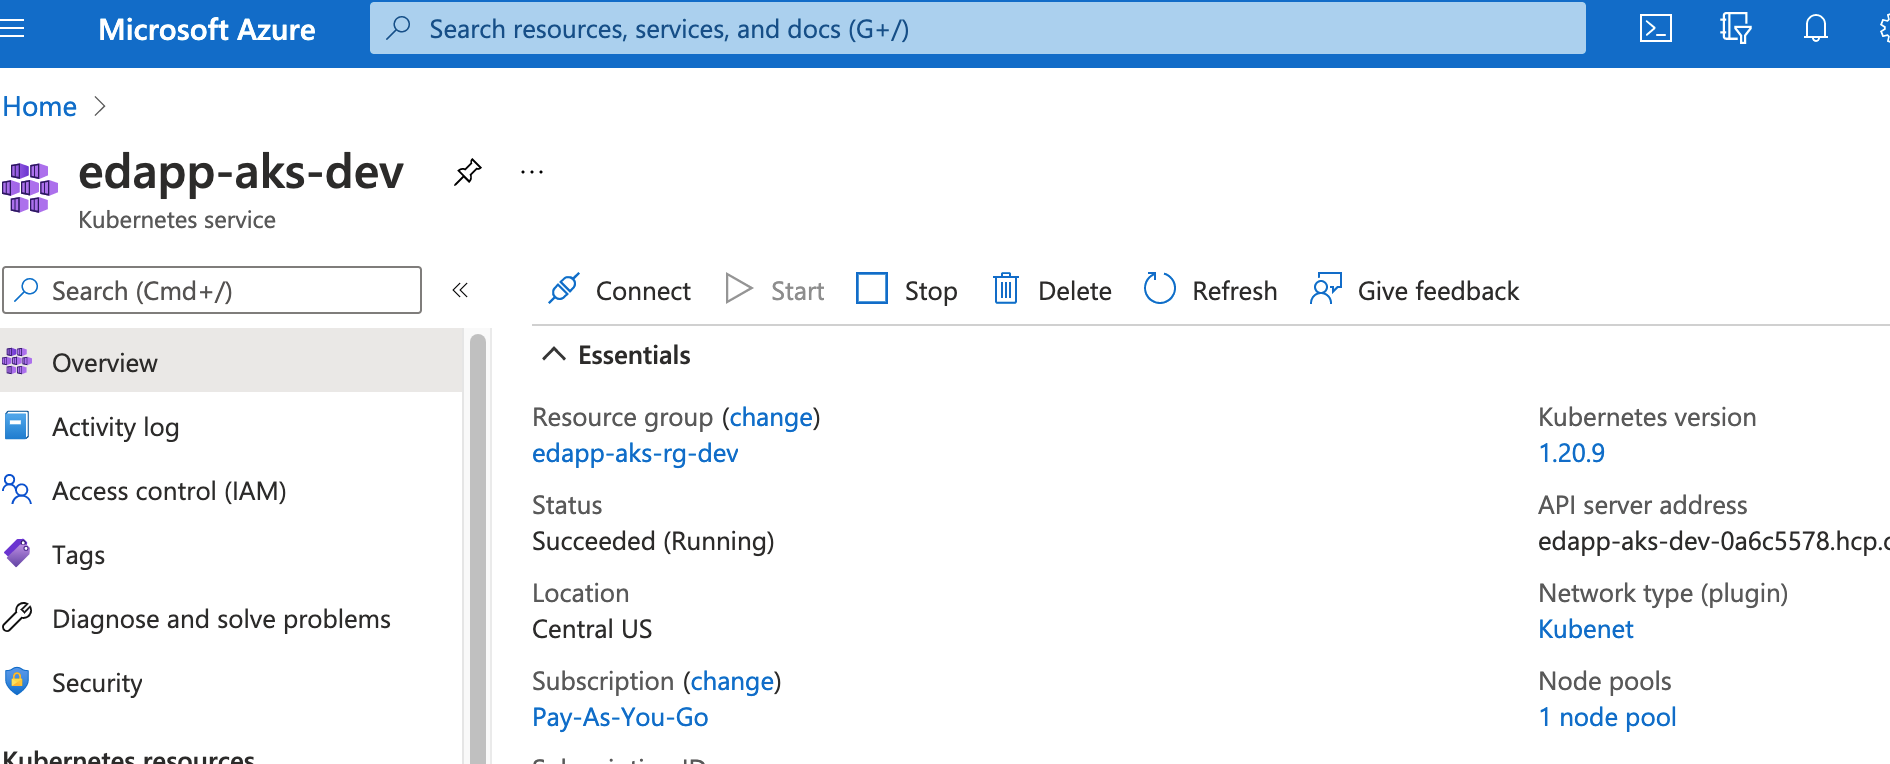
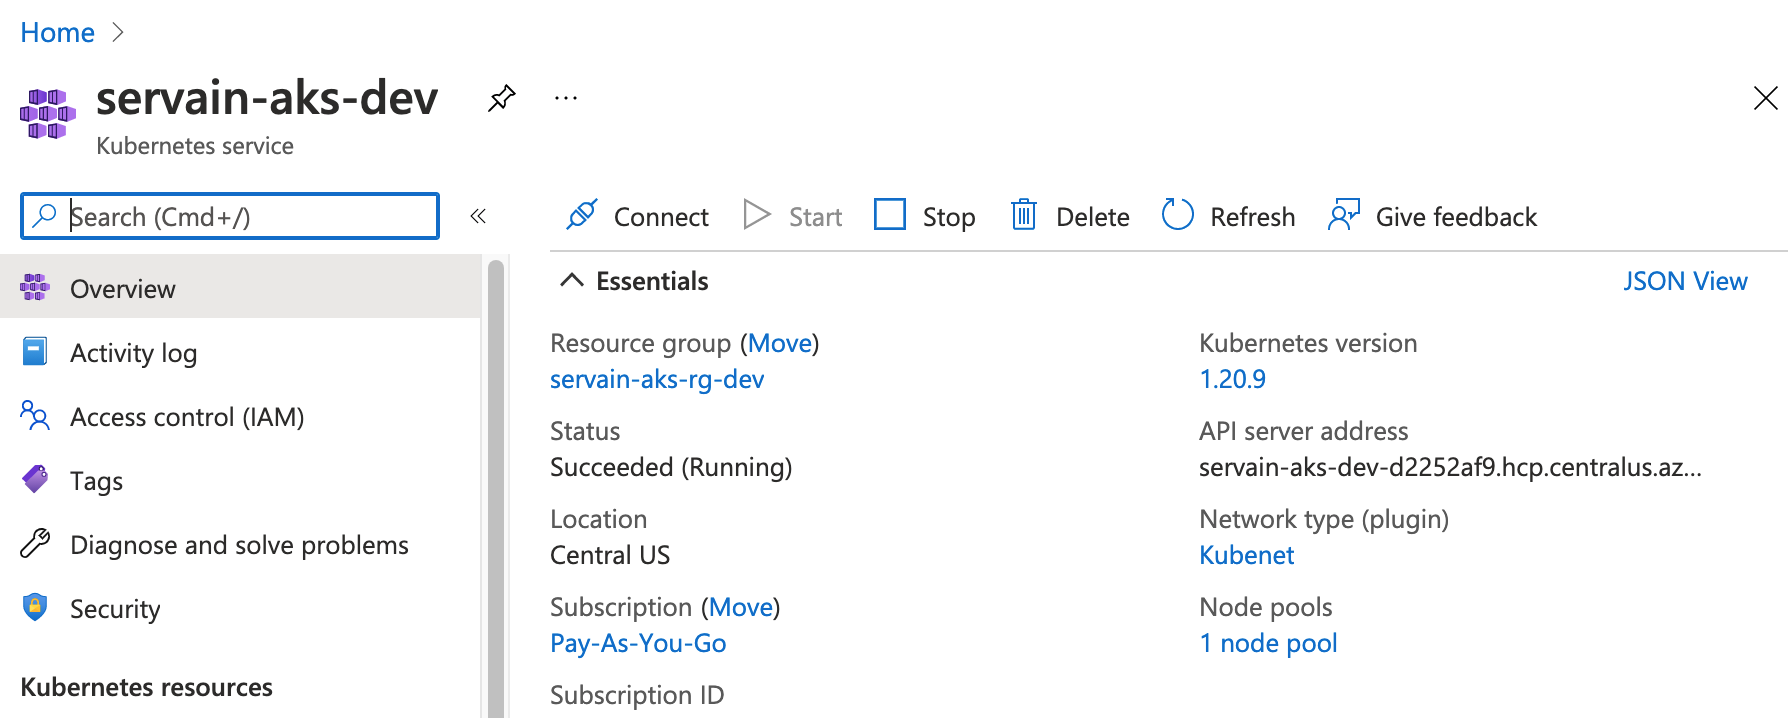
update readme

diff --git a/readme.md b/readme.md
@@ -14,25 +14,35 @@
                    └──────── aks 
                              ├── main.tf  
                              ├── variables.tf 
-                             └── output.tf      
+                             └── output.tf  
+                    └──────── acr 
+                             ├── main.tf  
+                             ├── variables.tf 
+                             └── output.tf 
               ├── pre     # create Azure storage to store state in remote backend 
                    ├── remote-storage.tf  
                    ├── variables.tf 
                    └── terraform.tfstate 
-              ├── cluster     # create Aks cluster 
+              ├── cluster     # create Aks, Acr, Resource Group for cluster env 
                    ├── main.tf  
                    ├── variables.tf 
-                   └── terraform.tfstate  
+                   └── terraform.tfvars 
      ├────── k8s         # simple service k8s deployment scripts 
-              ├── deployment.yaml
-              ├── service.yaml
+     		 ├── postgresdb     # postgresDB contianer k8s deployment scripts
+                   ├── configmap.yaml
+                   ├── persistvoloumn.yaml
+                   ├── deployment.yaml
+                   └── service.yaml
+              ├── app     # servian App contianer k8s deployment scripts
+                   ├── configmap.yaml
+                   ├── deployment.yaml
+                   └── service.yaml
      ├────── pipelines   # Azure pipeline to auto init, validate, plan, apply terraform 
               ├── job  
                    ├── terraformApply.yaml
               ├── step  
                    ├── terraformTask.yaml
               ├── deployment.yaml
-              
 ```
 # Tools Install
 1. AzureCLi
@@ -59,11 +69,13 @@ git push origin {you-branch}
 ## 2. Create Azure Cluster Step
 /terraform/cluster is to create a auto scaling node pool(1 -3) cluster in Azure associated with a resource group
 ![image info](k8s-app/pics/k8s_resource.png)
+![image info](k8s-app/pics/acr.png)
 ```
 cd {local_repo_path}/terraform/cluster/
 terraform init
 terraform validate
-terraform plan
+terraform plan -out tfplan
+terraform show -json tfplan >> tfplan.json
 terraform apply
 ```
 
@@ -72,19 +84,38 @@ terraform apply
 /k8s/service.yaml, pod connect with locadbalance k8s service to allow out access.
 ```
 cd {local_repo_path}/k8s
-az aks get-credentials --resource-group edapp-aks-rg-dev  --name edapp-aks-dev
-kubectl apply -f deployment.yaml -n default
-kubectl apply -f service.yaml -n default
+az aks get-credentials --resource-group servain-aks-rg-dev  --name servain-aks-dev --overwrite
+# first postgres
+kubectl apply -f postgresdb/configmap.yaml
+kubectl apply -f postgresdb/persistvoloumn.yaml
+kubectl apply -f postgresdb/deployment.yaml
+kubectl apply -f postgresdb/service.yaml
+# check the postgres pod & servie
+kubectl describe pod {}
+kubectl exec -it {postgres-pod-name}  -- psql -U postgres
+PGPASSWORD=123 psql -h {postgres-service-ip}  -p 5432 -d app -U postgres
+# servian webapp
+kubectl apply -f app/configmap.yaml
+kubectl apply -f app/deployment.yaml
+kubectl apply -f app/service.yaml
+# check webapp deployment
+kubectl describe pod {webapp-pod-name}
 ```
 after deployment verify
 ```
 kubectl get pods -o wide
-kubectl get services -n default
-kubectl describe svc my-nginx
+kubectl get servic -n default
+kubectl describe svc {postgres/webapp}
 ```
+postgress pod
+![image info](k8s-app/pics/postgres_pod.png)
+webapp pod
+![image info](k8s-app/pics/webapp_pod_1.png)
+![image info](k8s-app/pics/webapp_pod_2.png)
+k8s servies
 ![image info](k8s-app/pics/pod_service.png)
-http://20.106.11.18/
-![image info](k8s-app/pics/nigx.png)
+http://20.84.192.206:3000
+![image info](k8s-app/pics/webapp.png)
 # Azure Pipeline
 ## set ups
 1. create service connection in Azure Devsops projectsettings name as 'Azure Service Manage'
